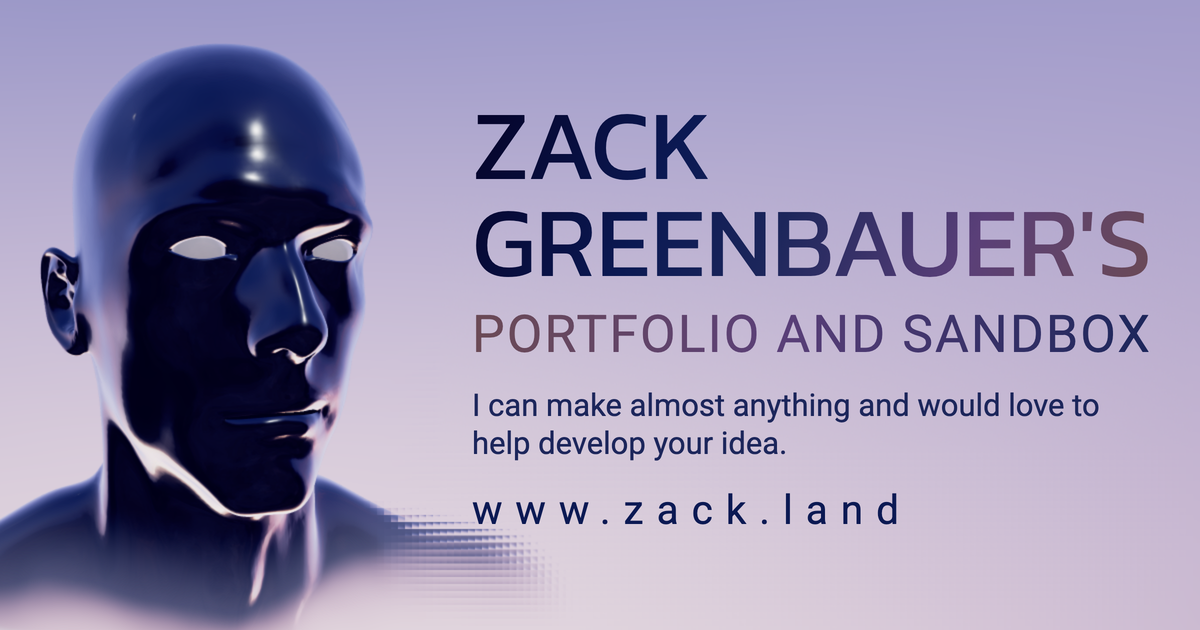
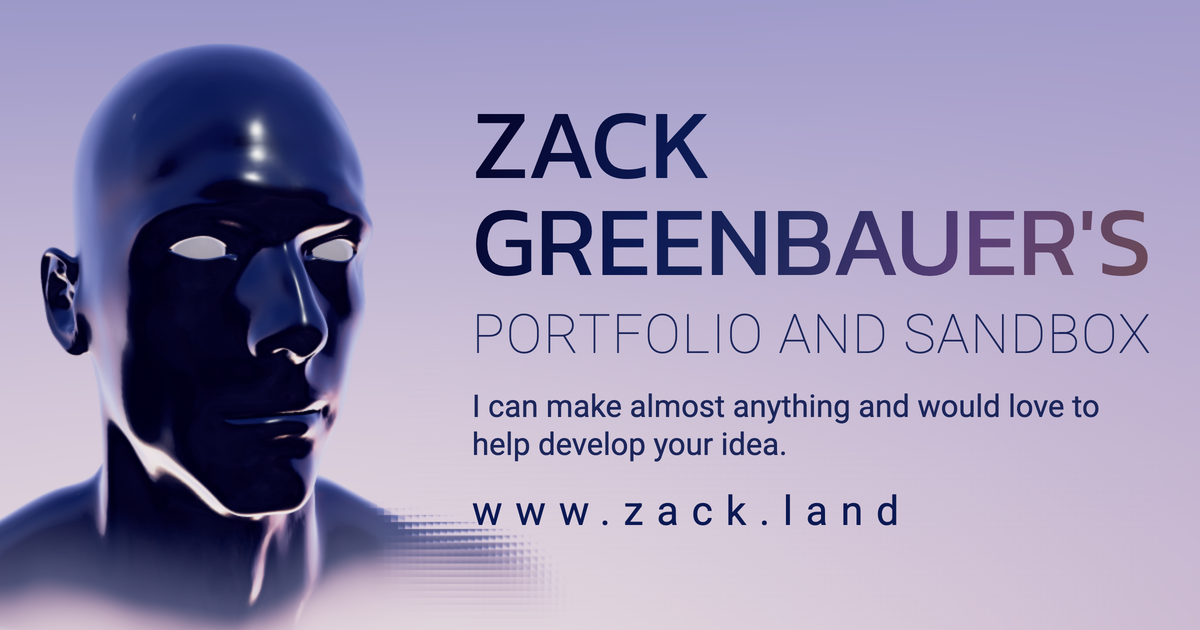
feat(brand): subtitle set as the site's; the square shows half the head
"Portfolio and Sandbox" is now Roboto Thin, uppercase and slightly
spaced in one theme colour, as the home page's h2. On the square the
head slides left so only its right half shows, the sky carried on to
the right, and the text is about 1.7 times larger.

diff --git a/public/brand/README.md b/public/brand/README.md
@@ -29,14 +29,15 @@ The dawn palette (`theme/head.json`):
 - **The head** faces right of the camera with a neutral face, and a strip of the
   site's glass lies over the shoulders only, never the face.
 - **Share images** (`og-image.png` and `instagram-1080x1080.png`) are read at
-  about a third of their size, so their text is set to be read there, in Roboto
-  regular (light is too thin at that size): the name as the headline, "Zack"
-  over "Greenbauer's"; "Portfolio and Sandbox" under it; the tagline smaller;
-  then the domain. The name shades corner to corner from navy through indigo,
-  blue and a violet to a darkened rose, and the subtitle runs back the other
-  way. Each stop is darkened as far as it needs to hold 3:1 on the image's sky;
-  on the square, whose sky darkens toward the head, the subtitle, tagline and
-  domain stay in navy to blue.
+  about a third of their size, so their text is set large: the name as the
+  headline, "Zack" over "Greenbauer's"; "Portfolio and Sandbox" under it; the
+  tagline smaller; then the domain. The name shades corner to corner from navy
+  through indigo, blue and a violet to a darkened rose, each stop darkened to
+  hold 3:1 on the image's sky. The subtitle is set as the site's (Roboto Thin,
+  uppercase, slightly spaced) in one theme colour: the lightest that reaches
+  4.5:1 on the sky, as the home page picks it. The tagline and domain are in
+  Roboto regular, as light is too thin at that size. The square shows only the
+  head's right half, its sky carried on to the right, to give the text room.
 
 ## Assets
 
